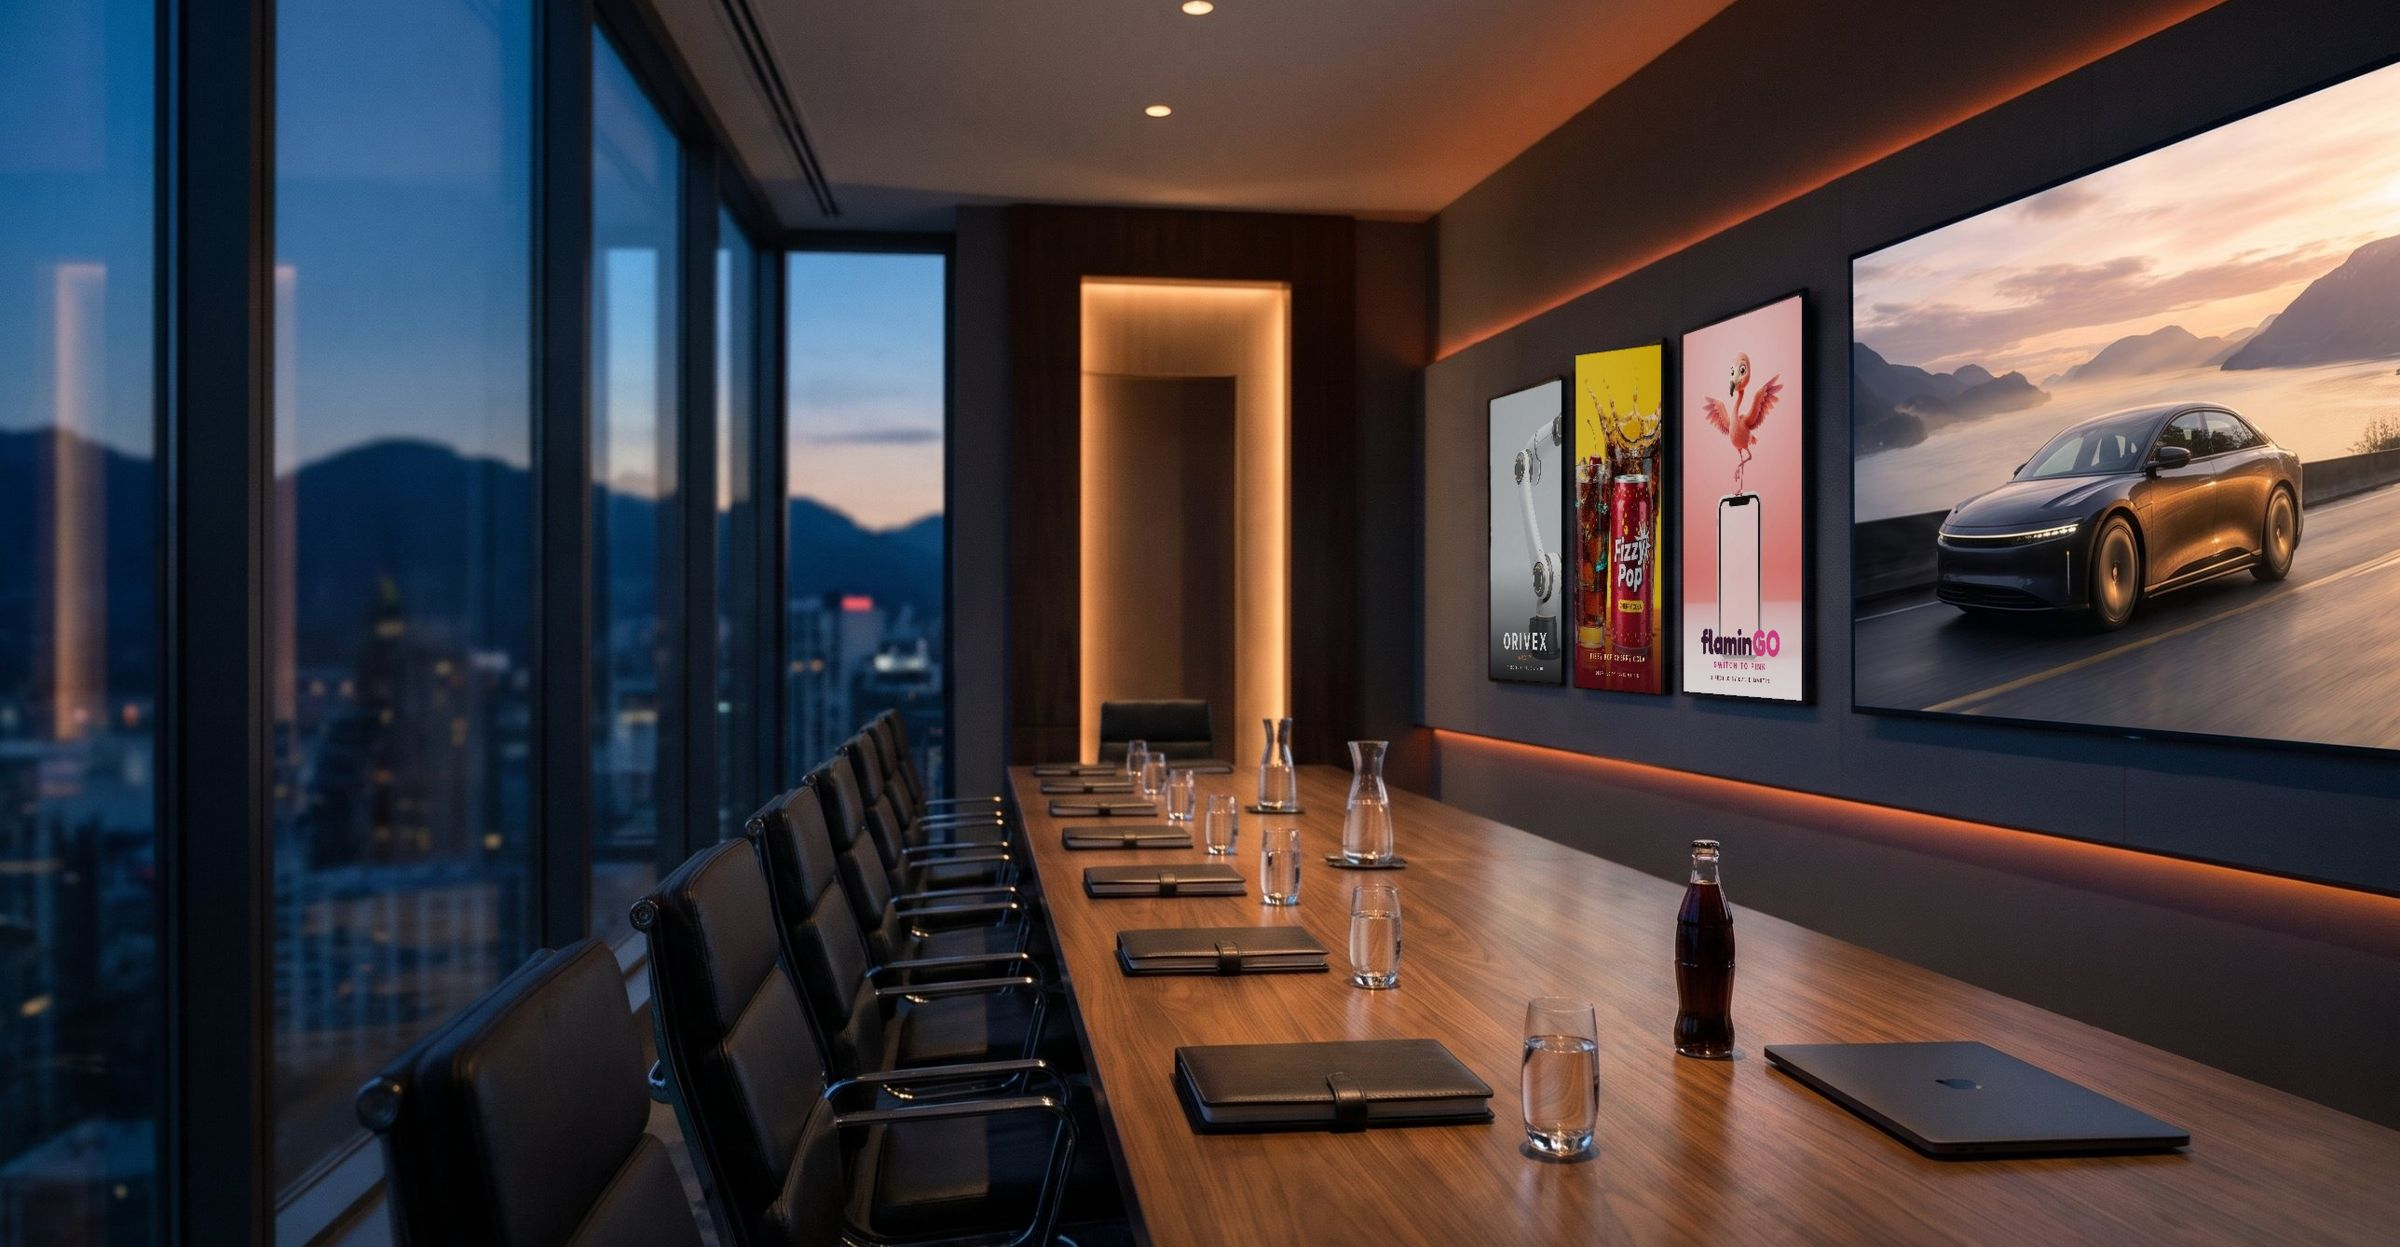
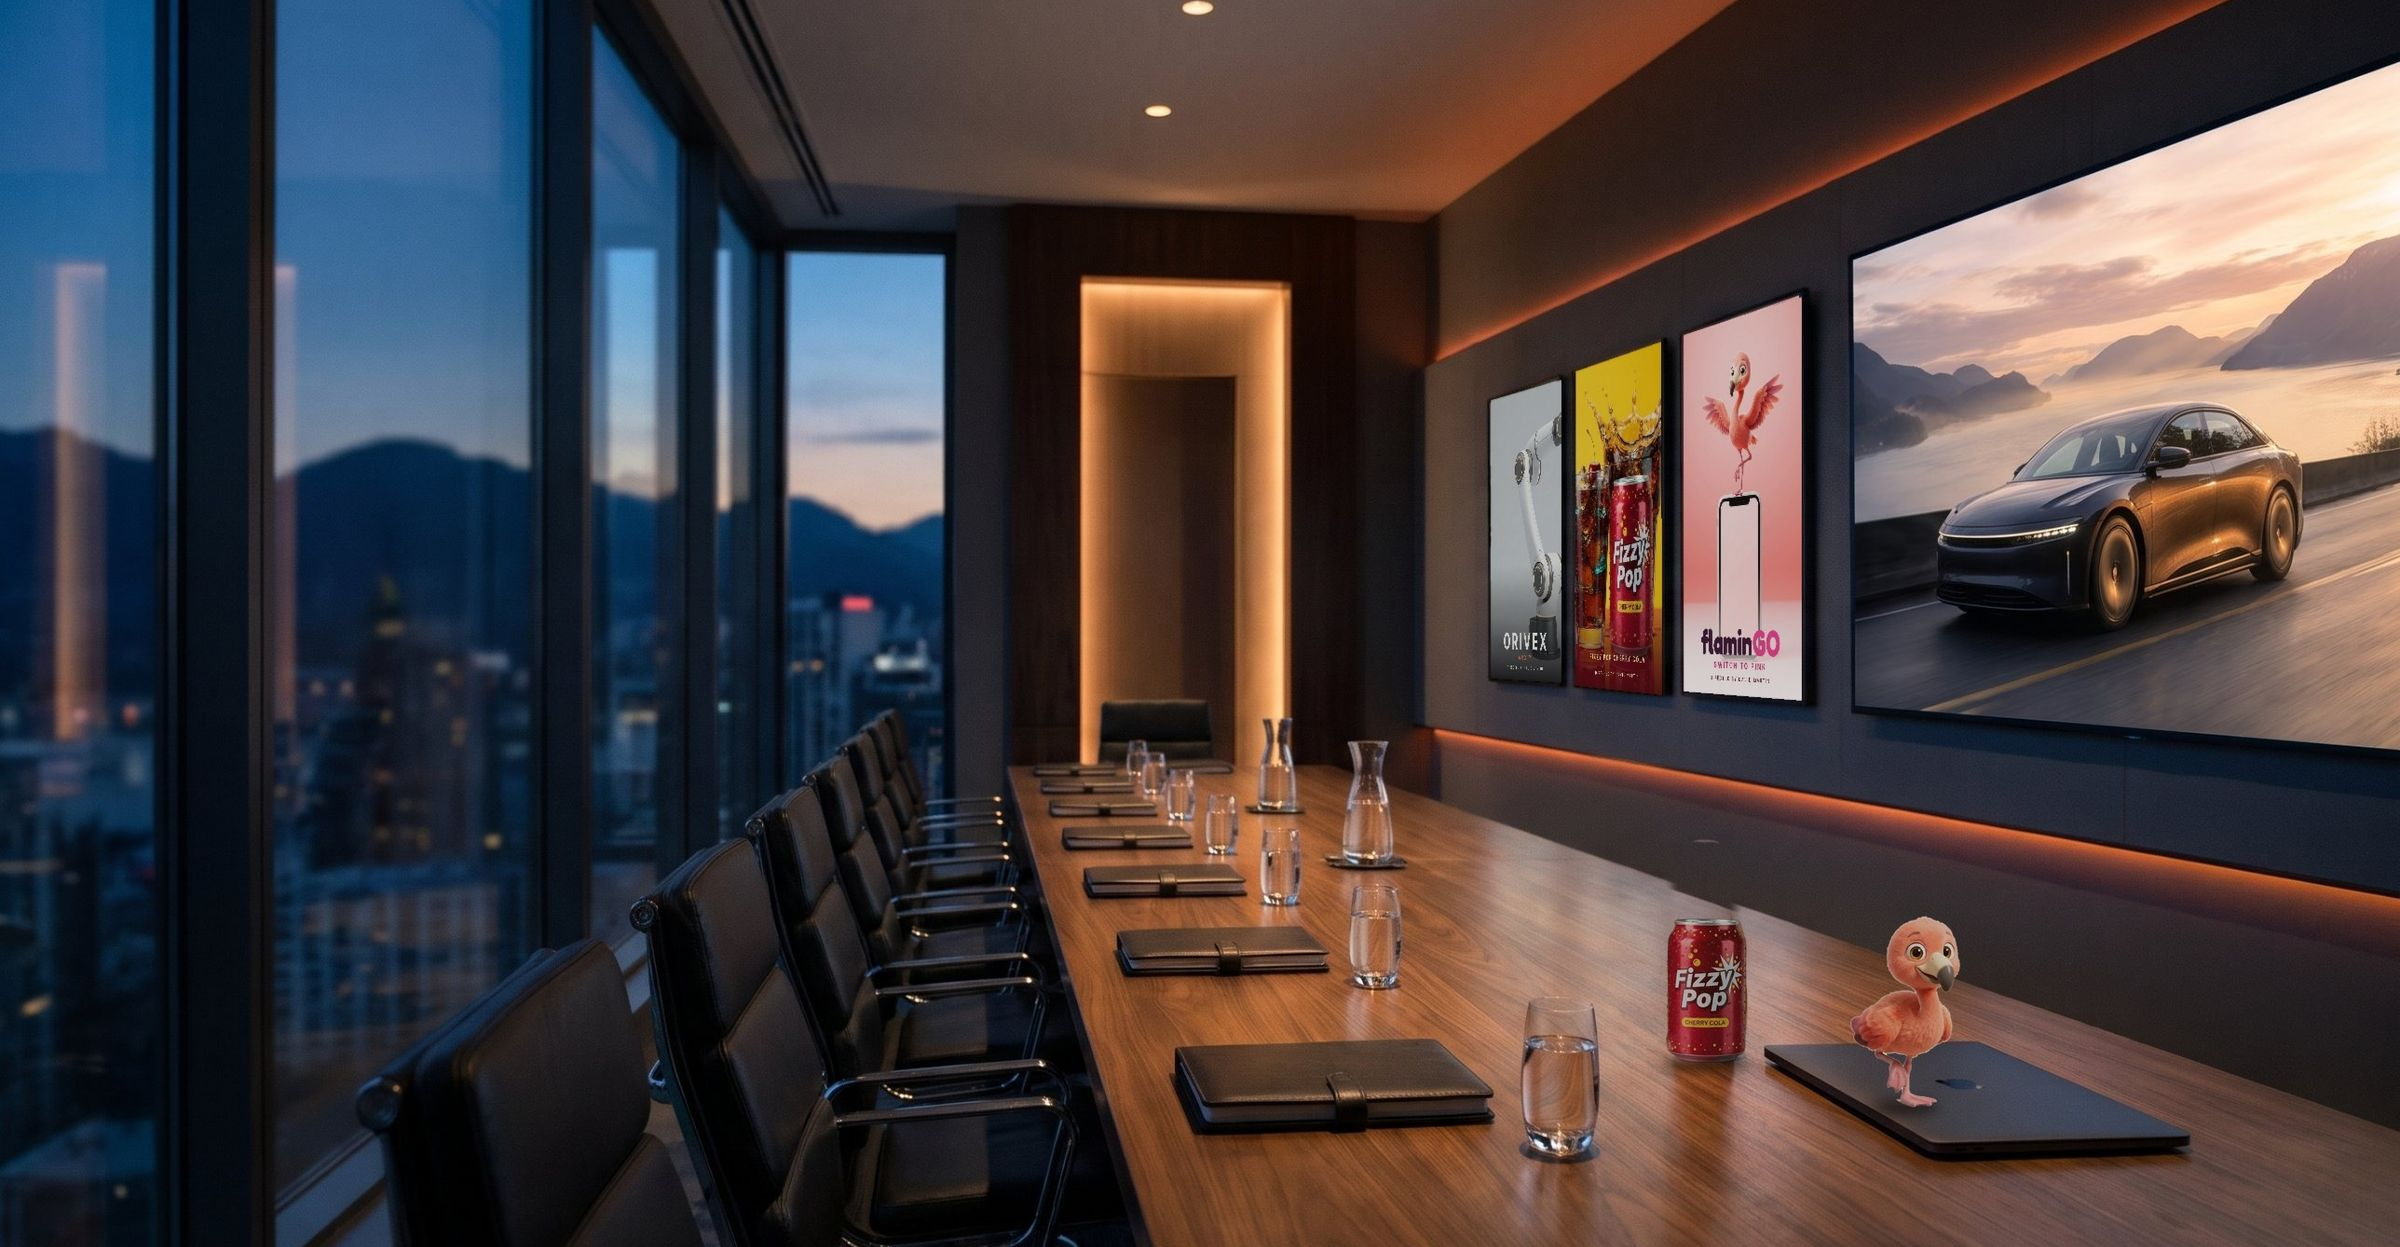
Home hero: Fizzy Pop can and Frankie on the table, straighten Fizzy Pop poster
- Fizzy Pop poster corners corrected so it sits square in its frame
- Generic cola bottle replaced with the real Fizzy Pop can
- Frankie (flaminGO) standing on the laptop

Claude-Session: https://claude.ai/code/session_016tvzwU3cz4MoTCXz6b5jFJ

Changed region(s): [[0.6875, 0.6704, 0.8125, 0.9142], [0.6562, 0.2743, 0.6875, 0.5485]]

diff --git a/public/index.html b/public/index.html
@@ -1,5 +1,5 @@
 <!doctype html><html lang="en"><head><meta charset="utf-8"><meta name="viewport" content="width=device-width, initial-scale=1, viewport-fit=cover"><title>David Martin | Creative Professional</title><meta name="description" content="Creative Director with a video and visual-content specialty. I create and direct video, visual content, campaigns and digital experiences, combining creative direction with hands-on production and emerging AI technology."><link rel="canonical" href="https://studio.madebydavidmartin.com/"><meta name="theme-color" content="#231A10"><meta name="author" content="David Martin"><meta property="og:type" content="website"><meta property="og:site_name" content="David Martin, Creative Professional"><meta property="og:title" content="David Martin | Creative Professional"><meta property="og:description" content="Creative Director with a video and visual-content specialty. I create and direct video, visual content, campaigns and digital experiences, combining creative direction with hands-on production and emerging AI technology."><meta property="og:url" content="https://studio.madebydavidmartin.com/"><meta property="og:image" content="https://studio.madebydavidmartin.com/img/og-card.jpg?v=2"><meta property="og:image:width" content="1200"><meta property="og:image:height" content="630"><meta name="twitter:card" content="summary_large_image"><meta name="twitter:image" content="https://studio.madebydavidmartin.com/img/og-card.jpg?v=2"><link rel="icon" href="favicon.svg" type="image/svg+xml"><link rel="icon" href="favicon.ico" sizes="any"><link rel="apple-touch-icon" href="apple-touch-icon.png"><link rel="preconnect" href="https://fonts.googleapis.com"><link rel="preconnect" href="https://fonts.gstatic.com" crossorigin><link rel="stylesheet" href="https://fonts.googleapis.com/css2?family=Cormorant+Garamond:wght@300&family=IBM+Plex+Mono:wght@400;500&family=Caveat:wght@600&family=Geist:wght@400;500;600;700&family=Geist+Mono:wght@400;500&display=swap"><link rel="stylesheet" href="https://api.fontshare.com/v2/css?f[]=clash-display@600,700&display=swap">
-<link rel="preload" as="image" href="img/hero-banner.jpg?v=5" fetchpriority="high">
+<link rel="preload" as="image" href="img/hero-banner.jpg?v=6" fetchpriority="high">
 <link rel="stylesheet" href="styles.css?v=c1032"><style>body{margin:0}
 .flag-card{display:grid;grid-template-columns:minmax(240px,400px) 1fr;gap:28px;align-items:center;background:var(--card);border:1px solid var(--line);border-radius:0;overflow:hidden;color:var(--ink);margin:26px 0 4px}
 .flag-card video{width:100%;height:100%;object-fit:cover;display:block;aspect-ratio:16/9;background:#000}
@@ -116,7 +116,7 @@
 .cine{position:relative;isolation:isolate;--hero-photo-o:1}
 .cine{background:#E7D6B4;box-shadow:0 0 0 100vmax #E7D6B4}
 main .cine::after{background:linear-gradient(90deg,rgba(8,8,10,.74),rgba(8,8,10,.22) 55%,rgba(8,8,10,0) 80%)} /* Oct 2026: retire old hero-home.jpg now that hero-edit-suite.jpg is the hero background */
-.cine::before{content:"";position:absolute;top:0;bottom:0;left:50%;transform:translateX(-50%);width:100vw;z-index:0;pointer-events:none;opacity:0;animation:cineBgIn 1.8s ease .15s forwards;background:url("img/hero-banner.jpg?v=5") center 62%/cover no-repeat}
+.cine::before{content:"";position:absolute;top:0;bottom:0;left:50%;transform:translateX(-50%);width:100vw;z-index:0;pointer-events:none;opacity:0;animation:cineBgIn 1.8s ease .15s forwards;background:url("img/hero-banner.jpg?v=6") center 62%/cover no-repeat}
 .cine-in{position:relative;z-index:1}
 @keyframes cineBgIn{from{opacity:0}to{opacity:var(--hero-photo-o,.8)}}
 @media (prefers-reduced-motion:reduce){.cine::before{animation:none;opacity:var(--hero-photo-o,.8)}}
